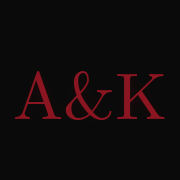
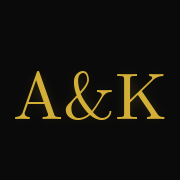
Larger split names, Ruqaa Arabic, gold splash, trim sections (#29)

diff --git a/index.html b/index.html
@@ -6,16 +6,16 @@
     <meta name="theme-color" content="#2a080c">
     <meta name="description" content="You are invited to the Barat of Khadija Imran Butt and Adeel Kamal Ahmad. November 10, 2026 · Lahore.">
     <title>BARAT · Adeel & Khadija</title>
-    <link rel="icon" href="favicon.ico?v=4" sizes="any">
-    <link rel="icon" type="image/svg+xml" href="assets/favicon.svg?v=4">
-    <link rel="icon" type="image/png" sizes="32x32" href="assets/favicon.png?v=4">
-    <link rel="icon" type="image/png" sizes="192x192" href="assets/favicon-192.png?v=4">
-    <link rel="apple-touch-icon" sizes="180x180" href="assets/apple-touch-icon.png?v=4">
-    <link rel="stylesheet" href="style.css?v=26">
+    <link rel="icon" href="favicon.ico?v=5" sizes="any">
+    <link rel="icon" type="image/svg+xml" href="assets/favicon.svg?v=5">
+    <link rel="icon" type="image/png" sizes="32x32" href="assets/favicon.png?v=5">
+    <link rel="icon" type="image/png" sizes="192x192" href="assets/favicon-192.png?v=5">
+    <link rel="apple-touch-icon" sizes="180x180" href="assets/apple-touch-icon.png?v=5">
+    <link rel="stylesheet" href="style.css?v=27">
     <link rel="preload" as="image" type="image/webp" href="assets/hero-card.webp?v=1">
     <link rel="preload" as="font" type="font/woff2" href="assets/fonts/cmu-serif-roman.woff2" crossorigin>
     <link rel="preload" as="font" type="font/woff2" href="assets/fonts/ED-Lavonia-Regular.woff2" crossorigin>
-    <link href="https://fonts.googleapis.com/css2?family=Amiri:ital,wght@0,400;0,700;1,400&family=Playfair+Display:ital,wght@0,400;1,400&family=Inter:wght@300;400;500&display=swap" rel="stylesheet">
+    <link href="https://fonts.googleapis.com/css2?family=Aref+Ruqaa:wght@400;700&family=Playfair+Display:ital,wght@0,400;1,400&family=Inter:wght@300;400;500&display=swap" rel="stylesheet">
 </head>
 <body class="curtain-intro">
 
@@ -65,9 +65,9 @@
                         <div class="barat-title">BARAT</div>
                         <div class="couple-block">
                             <p class="of-sister"><em>of their beloved daughter</em></p>
-                            <h1 class="bride-groom">Khadija Imran Butt</h1>
+                            <h1 class="bride-groom">Khadija Imran<br>Butt</h1>
                             <div class="golden-amp">&</div>
-                            <h1 class="bride-groom">Adeel Kamal Ahmad</h1>
+                            <h1 class="bride-groom">Adeel Kamal<br>Ahmad</h1>
                             <p class="of-sister"><em>son of Mr & Mrs Javed<br>Ahmad Butt</em></p>
                         </div>
                     </div>
@@ -164,46 +164,6 @@
                 <p class="venue-city">Lahore, Pakistan</p>
                 <p class="venue-date-line">November 10, 2026 &nbsp;•&nbsp; 7:00 PM</p>
                 <p class="venue-reception">Grand Dinner & Reception</p>
-            </section>
-
-            <section class="section section-dark" data-reveal>
-                <div class="section-tag">Evening</div>
-                <h2 class="section-heading">The Night's Events</h2>
-
-                <div class="program-list">
-                    <div class="prog-item">
-                        <h3>Doors Open &nbsp;·&nbsp; <span class="prog-time">7:00 PM</span></h3>
-                        <p>Guests are received and welcomed by the family</p>
-                        <p>Starters, sherbet & light refreshments served</p>
-                    </div>
-                    <div class="prog-rule"></div>
-                    <div class="prog-item">
-                        <h3>Arrival of the Baraat &nbsp;·&nbsp; <span class="prog-time">8:00 PM</span></h3>
-                        <p>The groom arrives in procession with his family</p>
-                        <p>Welcomed with dhol, lights & celebration</p>
-                    </div>
-                    <div class="prog-rule"></div>
-                    <div class="prog-item">
-                        <h3>Grand Dinner</h3>
-                        <p>A lavish spread of traditional Pakistani cuisine</p>
-                        <p>Desserts, mithai & everything in between</p>
-                    </div>
-                    <div class="prog-rule"></div>
-                    <div class="prog-item">
-                        <h3>Rukhsati</h3>
-                        <p>The bride departs with her new family</p>
-                        <p>A moment of love, prayers & new beginnings</p>
-                    </div>
-                </div>
-            </section>
-
-            <section class="section section-black" data-reveal>
-                <div class="section-tag">Attire</div>
-                <h2 class="section-heading">Dress Code</h2>
-                <p class="dresscode-body">Dress in your finest — this is a night worth celebrating in full splendour.<br>Rich colours, traditional cuts, and formal attire are all welcome.</p>
-                <div class="dresscode-pills">
-                    <div class="dresscode-pill">Formal & Traditional</div>
-                </div>
             </section>
 
             <section class="section rsvp-section section-dark" data-reveal>

diff --git a/style.css b/style.css
@@ -49,8 +49,6 @@
     /* Red — backgrounds only */
     --red:        #e8192c;
     --red-dim:    rgba(232,25,44,0.22);
-    --ak:         #8b1520;
-    --ak-light:   #c43342;
 
     /* Neutrals */
     --ink:        #0a0a0a;
@@ -116,33 +114,34 @@ body.curtain-intro {
 }
 
 .splash-monogram {
-    display: inline-block;
     font-family: "Playfair Display", var(--ff-serif);
     font-size: clamp(3.5rem, 14vw, 7rem);
     font-weight: 400;
-    color: var(--ak);
+    color: var(--gold);
     letter-spacing: -0.02em;
     line-height: 1;
+    animation: pulseGold 2.4s ease-in-out infinite;
 }
 .mono-amp {
-    display: contents;
     font-style: italic;
     font-weight: 400;
+    color: var(--gold-light);
     font-size: 0.75em;
+    animation: pulseGoldAmp 2.4s ease-in-out infinite;
 }
 
 .splash-rule {
     width: 60px;
     height: 1px;
-    background: var(--ak);
-    opacity: 0.45;
+    background: var(--gold);
+    opacity: 0.5;
 }
 
 .splash-sub {
     font-family: "Playfair Display", var(--ff-serif);
     font-size: 1rem;
     letter-spacing: 6px;
-    color: var(--ak);
+    color: var(--gold);
     text-transform: uppercase;
 }
 
@@ -155,36 +154,9 @@ body.curtain-intro {
     animation: blink 2.2s ease-in-out infinite;
 }
 
-@supports ((-webkit-background-clip: text) or (background-clip: text)) {
-    .splash-monogram {
-        background-image: linear-gradient(
-            90deg,
-            #6e1018 0%,
-            #6e1018 40%,
-            #8b1520 44%,
-            #a32230 47%,
-            #a32230 53%,
-            #8b1520 56%,
-            #6e1018 60%,
-            #6e1018 100%
-        );
-        background-size: 300% 100%;
-        background-position: 0% 50%;
-        -webkit-background-clip: text;
-        background-clip: text;
-        color: transparent;
-        -webkit-text-fill-color: transparent;
-        animation: gold-sweep 12s linear infinite;
-    }
-}
-
 @media (prefers-reduced-motion: reduce) {
-    .splash-monogram {
-        animation: none !important;
-        color: var(--ak);
-        -webkit-text-fill-color: var(--ak);
-        background: none;
-    }
+    .splash-monogram,
+    .mono-amp { animation: none; color: var(--gold); }
 }
 
 /* ── CURTAIN OVERLAY ─────────────────────────────────── */
@@ -371,18 +343,18 @@ body.curtains-open .hero { filter: brightness(1); }
 }
 .bismillah,
 .ayah {
-    font-family: 'Amiri', 'Noto Naskh Arabic', serif;
+    font-family: "Aref Ruqaa", "Amiri", "Noto Naskh Arabic", serif;
     font-weight: 700;
-    line-height: 1.45;
+    line-height: 1.55;
     color: var(--gold-light);
     filter: none;
 }
 .bismillah {
-    font-size: clamp(0.95rem, 5.2cqw, 1.65rem);
-    letter-spacing: 0.02em;
+    font-size: clamp(1.05rem, 5.8cqw, 1.85rem);
+    letter-spacing: 0.01em;
 }
 .ayah {
-    font-size: clamp(0.62rem, 3.3cqw, 0.98rem);
+    font-size: clamp(0.7rem, 3.6cqw, 1.1rem);
     opacity: 1;
 }
 .arabic-flourish {
@@ -488,12 +460,12 @@ body.curtains-open .hero { filter: brightness(1); }
 }
 .bride-groom {
     font-family: var(--ff-script);
-    font-size: clamp(0.95rem, 5cqw, 1.65rem);
+    font-size: clamp(1.2rem, 6.6cqw, 2.05rem);
     color: var(--cream);
     font-weight: 400;
     font-style: normal;
     letter-spacing: 0.01em;
-    line-height: 1.2;
+    line-height: 1.15;
     max-width: 100%;
 }
 .golden-amp {
@@ -1125,6 +1097,14 @@ form {
 }
 
 /* ── ANIMATIONS ──────────────────────────────────────── */
+@keyframes pulseGold {
+    0%, 100% { color: #c49a2e; text-shadow: none; }
+    50%      { color: #e8cc6a; text-shadow: 0 0 2px rgba(232, 204, 106, 0.55); }
+}
+@keyframes pulseGoldAmp {
+    0%, 100% { color: #d4af37; text-shadow: none; }
+    50%      { color: #f3e08a; text-shadow: 0 0 2px rgba(243, 224, 138, 0.55); }
+}
 @keyframes blink {
     0%, 100% { opacity: 0.4; }
     50% { opacity: 1; }
@@ -1159,7 +1139,7 @@ form {
     .bismillah { font-size: clamp(0.85rem, 4.6vh, 1.3rem); }
     .ayah { font-size: clamp(0.58rem, 3vh, 0.88rem); }
     .hero .barat-title { font-size: clamp(1.1rem, 6vh, 1.9rem); }
-    .hero .bride-groom { font-size: clamp(0.9rem, 4.6vh, 1.4rem); }
+    .hero .bride-groom { font-size: clamp(1.05rem, 5.2vh, 1.7rem); }
 }
 
 @supports not (height: 100dvh) {
